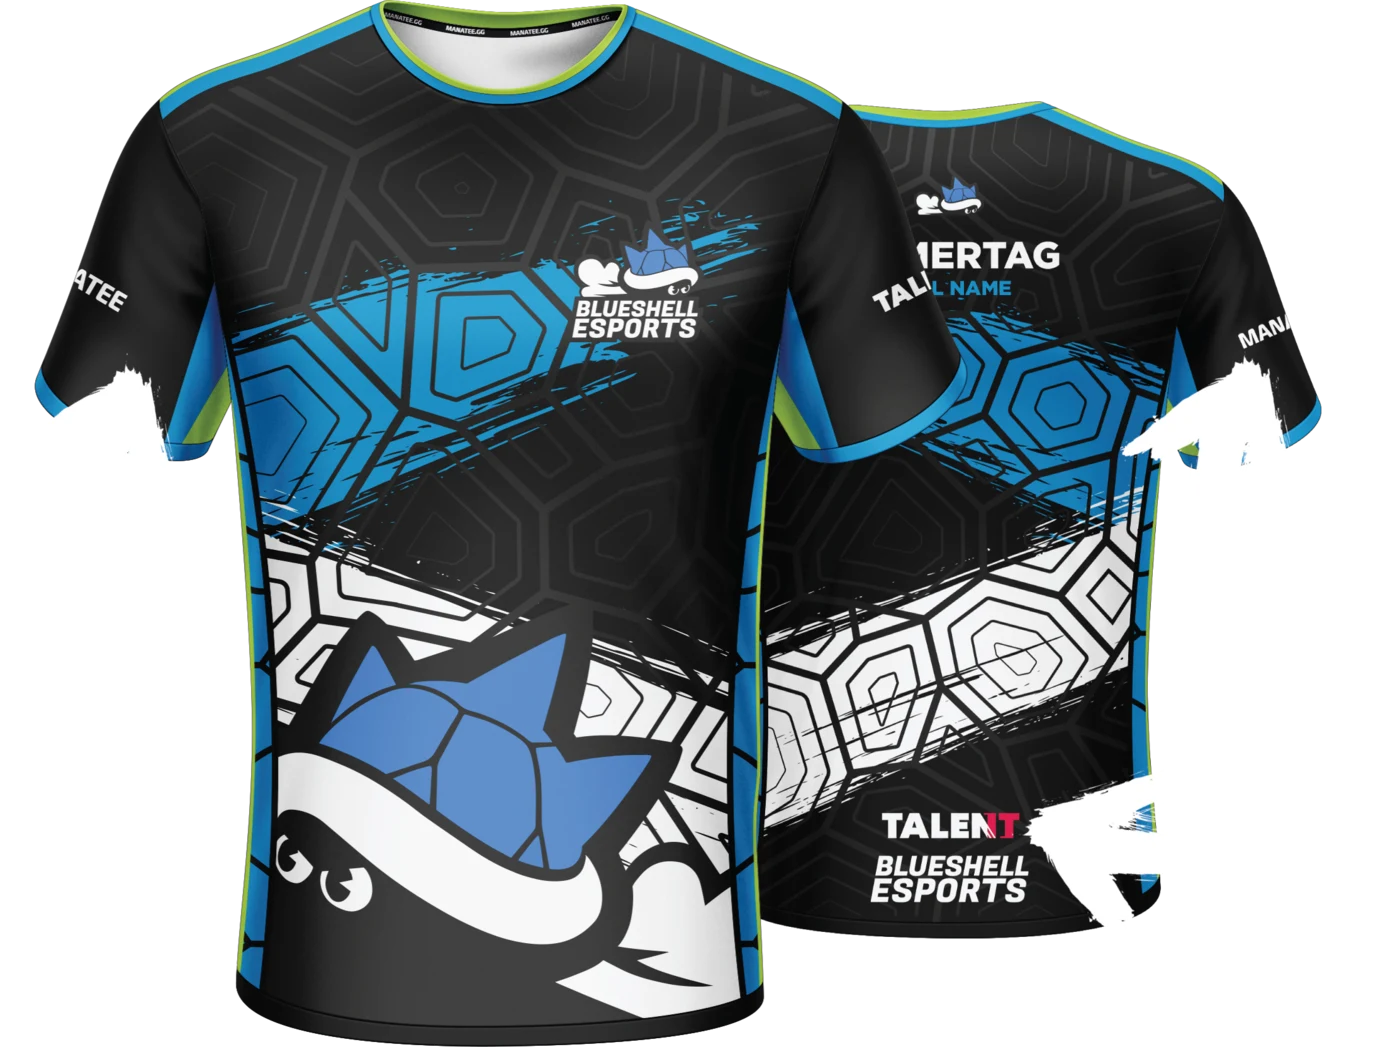
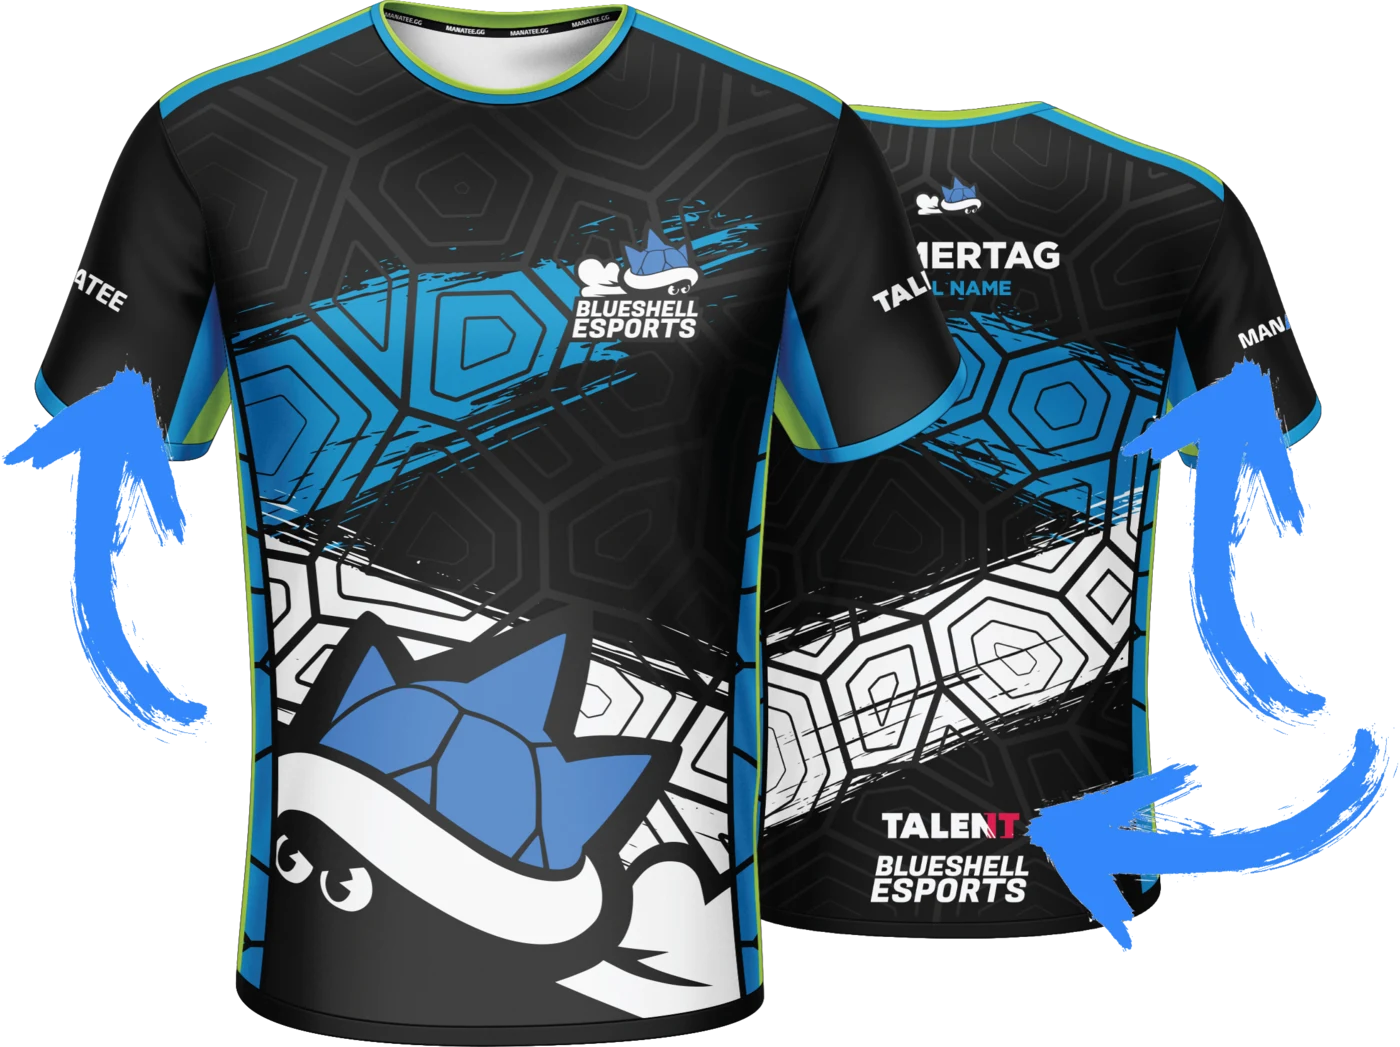
fix(partners): the page stands on the association's own ground
Every band drew itself on a near-opaque panel, so the shell tile the island is
built on was all but invisible on the one page that is meant to look like the
association. The artwork sat in rounded frames on top of those panels, a second
edge around things that already have one.

The frames are gone and the artwork sits straight on the page. In their place
each band lays a wash under its content and lets it fade out well before either
edge, so the middle is calm enough to read and the sides stay shells. Each band
takes its own tint — brand blue, the eyebrow's green, the chart's red — so
scrolling the page is passing through rooms rather than down one corridor.

The poster is whole now, rows 110 to 1670 of the pack's artwork rather than a
window into it, and the newsletter is cropped square at its head, where a reader
lands. The arrows are five times the size and lie across the foot of the
artwork, pointing up into it.

The jersey's own arrows were white, drawn for a dark page, and all but vanished
on the light one. They are the association's blue in the stored artwork now, the
same blue the other three point with, so one file serves both themes and nothing
needs a plate under it.

Changed region(s): [[0.7986, 0.3362, 0.9521, 0.703], [0.0, 0.3362, 0.1536, 0.703], [0.7371, 0.703, 1.0, 0.9169]]

diff --git a/services/frontend/src/domains/association/island/PlacementBand.vue b/services/frontend/src/domains/association/island/PlacementBand.vue
@@ -9,10 +9,14 @@ import jersey from "@/assets/association/placement-jersey.webp"
  * Where a partner's name ends up, shown on the things it ends up on.
  *
  * The association's own artwork, taken from the sponsor pack rather than assembled here: the
- * poster and the newsletter as they were sent out, a photograph of the flyers on the bar, and
- * the jersey mock-up that already carries its own arrows. A frame with "your logo" written in
- * it says the same thing about a space nobody has seen; this says it about a space they can
- * point at.
+ * whole poster as it goes up, the head of the newsletter as it goes out, a photograph of the
+ * flyers on the bar, and the jersey mock-up that carries its own three arrows. A frame with
+ * "your logo" written in it says the same thing about a space nobody has seen; this says it
+ * about a space they can point at.
+ *
+ * The jersey's arrows were white, drawn for a dark page, and all but vanished on the light one.
+ * They are the association's blue in the stored artwork now — the same blue as the arrow the
+ * other three carry — so one file serves both themes and nothing needs a plate under it.
  */
 interface Placement {
   id: string
@@ -23,9 +27,9 @@ interface Placement {
   /** What a partner would put there, in the association's own words. */
   label: string
   where: string
-  /** Whether the artwork already points at the spot itself. */
+  /** Whether the artwork points at the spots itself, in the association's own arrows. */
   pointsAtItself?: boolean
-  /** Whether the artwork is a page rather than a photograph, and stands tall. */
+  /** Whether the artwork is a page, which is kept whole rather than filled to the box. */
   page?: boolean
 }
 
@@ -41,11 +45,10 @@ const PLACEMENTS: Placement[] = [
   {
     id: "newsletter",
     picture: newsletter,
-    alt: "A Blueshell newsletter, with the sponsor's logo across the foot of it",
+    alt: "The head of a Blueshell newsletter, listing the month's events",
     eyebrow: "On our newsletter",
     label: "Your logo on our newsletter",
     where: "Sent to every member, every month, and read for what is on that month.",
-    page: true,
   },
   {
     id: "poster",
@@ -98,19 +101,23 @@ defineProps<{testid?: string}>()
           <p class="placement__eyebrow font-body">
             {{ placement.eyebrow }}
           </p>
-          <img
-            :alt="placement.alt"
-            class="placement__picture"
-            loading="lazy"
-            :src="placement.picture"
-          >
-          <p class="placement__call">
+          <div class="placement__frame">
+            <img
+              :alt="placement.alt"
+              class="placement__picture"
+              loading="lazy"
+              :src="placement.picture"
+            >
+            <!-- Over the artwork, not beside it: the arrow is pointing at a place on the thing
+                 itself, and one that stops at the edge of it points at the edge. -->
             <img
               v-if="!placement.pointsAtItself"
               aria-hidden="true"
               class="placement__arrow"
               :src="arrow"
             >
+          </div>
+          <p class="placement__call">
             <span class="placement__label font-display">{{ placement.label }}</span>
           </p>
           <p class="placement__where font-body">
@@ -158,42 +165,54 @@ defineProps<{testid?: string}>()
 }
 
 /*
- * One box, one shape, for all four.
+ * One box, one shape, for all four, and nothing drawn around it.
  *
  * A page is taller than a photograph and the jersey is wider than both, and boxes cut to each
  * left the arrows and the calls beside them at four different heights down the page. Square
- * holds them level, and is tall enough that a poster in it is read rather than glanced at.
+ * holds them level, and is tall enough that a poster in it is read rather than glanced at. The
+ * artwork sits straight on the page's own ground: a panel behind it is a second edge around
+ * something that already has one.
  */
-.placement__picture {
+.placement__frame {
+  position: relative;
   width: 100%;
   margin-top: 0.6rem;
   aspect-ratio: 1 / 1;
-  object-fit: cover;
-  border-radius: 0.9rem;
-  background: var(--color-surface);
 }
 
-/* A page keeps all of its edges: cropping a poster is cropping what it says. */
+/* Absolute, so the square the frame declares is the square it keeps: as a flex item it
+   otherwise grows to whatever the artwork's own proportions ask for, and the rows unlevel. */
+.placement__picture {
+  position: absolute;
+  inset: 0;
+  width: 100%;
+  height: 100%;
+  object-fit: cover;
+}
+
+/* A page is kept whole: cropping a poster is cropping what it says. */
 .placement--page .placement__picture,
 .placement--own-arrow .placement__picture {
   object-fit: contain;
-  padding: 0.5rem;
 }
 
 /*
- * The jersey's own arrows are white, drawn on nothing. It keeps a dark plate under it in both
- * themes rather than losing them to a pale ground.
+ * The arrow lies across the foot of the artwork and sweeps up into it, as the association drew
+ * it. Mirrored, as it was, it swept away from the very thing it was pointing at.
  */
-.placement--own-arrow .placement__picture {
-  background: #0d1015;
+.placement__arrow {
+  position: absolute;
+  bottom: -0.4rem;
+  left: -1.2rem;
+  width: 46%;
+  transform: rotate(-12deg);
+  pointer-events: none;
 }
 
 .placement__call {
   display: flex;
   align-items: center;
-  gap: 0.6rem;
-  margin-top: 0.9rem;
-  min-height: 2.75rem;
+  margin-top: 0.7rem;
 }
 
 /*
@@ -201,12 +220,6 @@ defineProps<{testid?: string}>()
  * drew it — it already sweeps up and to the right — and leaned a little further, rather than
  * mirrored, which turned it away from the artwork it is meant to be pointing at.
  */
-.placement__arrow {
-  width: 3.4rem;
-  flex: none;
-  transform: rotate(-12deg);
-}
-
 .placement__label {
   font-size: 1rem;
   letter-spacing: 0.04em;

diff --git a/services/frontend/src/pages/partners/Partners.vue b/services/frontend/src/pages/partners/Partners.vue
@@ -82,7 +82,10 @@ const TALK = {
 
 <template>
   <v-main>
-    <island testid="partners-island">
+    <island
+      class="partners"
+      testid="partners-island"
+    >
       <hero-band
         alt="The association together, the whole room in one photograph"
         eyebrow="Become a partner"
@@ -101,10 +104,12 @@ const TALK = {
           Who you would be reaching
         </p>
       </div>
-      <number-band
-        :figures="figures"
-        testid="partners-numbers"
-      />
+      <div class="wash wash--brand">
+        <number-band
+          :figures="figures"
+          testid="partners-numbers"
+        />
+      </div>
 
       <header-band>
         <template #head>
@@ -135,7 +140,7 @@ const TALK = {
       <band-rule />
 
       <section
-        class="offers w-full"
+        class="offers wash wash--ember w-full"
         data-testid="partners-offers"
       >
         <div class="mx-auto w-full max-w-6xl px-5 py-12 sm:px-8">
@@ -166,7 +171,9 @@ const TALK = {
         </div>
       </section>
 
-      <placement-band testid="partners-places" />
+      <div class="wash wash--lime">
+        <placement-band testid="partners-places" />
+      </div>
 
       <band-rule mirrored />
 
@@ -196,14 +203,16 @@ const TALK = {
         </template>
       </header-band>
 
-      <events-band
-        eyebrow="Where you would appear"
-        heading="Events we ran lately"
-        testid="partners-events"
-      />
+      <div class="wash wash--ember">
+        <events-band
+          eyebrow="Where you would appear"
+          heading="Events we ran lately"
+          testid="partners-events"
+        />
+      </div>
 
       <section
-        class="wall w-full"
+        class="wall wash wash--lime w-full"
         data-testid="partners-wall"
       >
         <div class="mx-auto w-full max-w-6xl px-5 py-12 sm:px-8">
@@ -239,21 +248,69 @@ const TALK = {
         </div>
       </section>
 
-      <call-band
-        :actions="TALK.actions"
-        :body="TALK.body"
-        :eyebrow="TALK.eyebrow"
-        :headline="TALK.headline"
-        testid="partners-call"
-      />
+      <div class="wash wash--brand">
+        <call-band
+          :actions="TALK.actions"
+          :body="TALK.body"
+          :eyebrow="TALK.eyebrow"
+          :headline="TALK.headline"
+          testid="partners-call"
+        />
+      </div>
     </island>
   </v-main>
 </template>
 
 <style scoped>
-.offers,
-.wall {
-  background: var(--band-ground);
+/*
+ * The page stands on the association's own ground rather than on a stack of panels.
+ *
+ * Every band draws itself on `--band-ground`, which is most of the way to opaque, so the shell
+ * tile underneath was all but invisible on a page that is meant to look like the association.
+ * Cleared here, and the veil over the tile thinned, so what a partner scrolls past is the
+ * artwork and the shells behind it.
+ */
+.partners {
+  --band-ground: transparent;
+  --tile-veil: oklch(0.21 0 0 / 52%);
+  /* What a wash is made of before it is tinted: the band ground, most of the way to clear. */
+  --wash-base: color-mix(in oklab, var(--color-pit) 74%, transparent);
+}
+
+:where([data-theme="light"]) .partners {
+  --tile-veil: rgb(184 194 204 / 24%);
+  --wash-base: color-mix(in oklab, var(--color-pit) 68%, transparent);
+}
+
+/*
+ * A wash down the middle, not a slab across the page.
+ *
+ * The shells are the page's own ground and are meant to be seen, but words on bare tile clash
+ * with it. So each band lays a wash under its content and lets it fade out well before either
+ * edge: the middle is calm enough to read, and the sides stay the association's background.
+ * Each band takes a different tint so scrolling the page is passing through rooms rather than
+ * down one corridor.
+ */
+.wash {
+  background: linear-gradient(
+    to right,
+    transparent,
+    var(--wash) 14%,
+    var(--wash) 86%,
+    transparent
+  );
+}
+
+.wash--brand {
+  --wash: color-mix(in oklab, var(--color-brand) 20%, var(--wash-base));
+}
+
+.wash--lime {
+  --wash: color-mix(in oklab, var(--color-eyebrow) 14%, var(--wash-base));
+}
+
+.wash--ember {
+  --wash: color-mix(in oklab, #e8483c 14%, var(--wash-base));
 }
 
 .offers__list {
